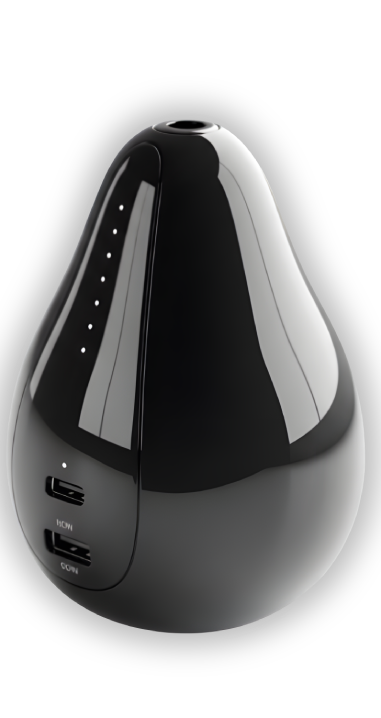
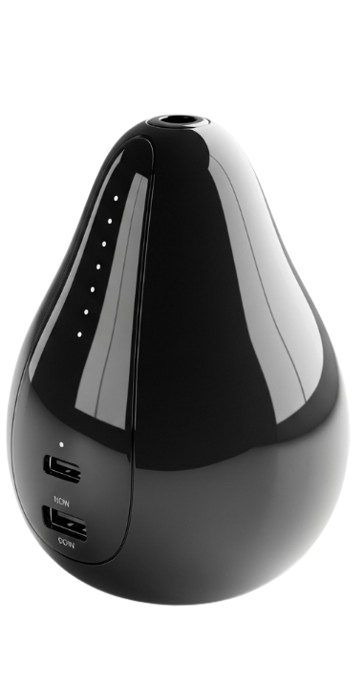
ombreggiatura immagini shop

Changed region(s): [[0.0, 0.1224, 1.0, 0.9184]]

diff --git a/src/app/shop/shop.component.ts b/src/app/shop/shop.component.ts
@@ -17,7 +17,7 @@ interface Product {
 export class ShopComponent {
   products: Product[] = [
     {
-      imageUrl: 'assets/images/Peraphone1.png',
+      imageUrl: 'assets/images/Peraphone1-prodotti.png',
       title: 'PeraPhone Lite',
       description: `
         <ul>
@@ -32,7 +32,7 @@ export class ShopComponent {
       orderQty: 1
     },
     {
-      imageUrl: 'assets/images/Peraphone2.png',
+      imageUrl: 'assets/images/Peraphone2-prodotti.png',
       title: 'PeraPhone Air',
       description: `
         <ul>
@@ -47,7 +47,7 @@ export class ShopComponent {
       orderQty: 1
     },
     {
-      imageUrl: 'assets/images/Peraphone3.png',
+      imageUrl: 'assets/images/Peraphone3-prodotti.png',
       title: 'PeraPhone Pro',
       description: `
         <ul>
@@ -62,7 +62,7 @@ export class ShopComponent {
       orderQty: 1
     },
     {
-      imageUrl: 'assets/images/Perabuds.png',
+      imageUrl: 'assets/images/Perabuds2.png',
       title: 'PeraPods',
       description: `
         <ul>
@@ -77,7 +77,7 @@ export class ShopComponent {
       orderQty: 1
     },
     {
-      imageUrl: 'assets/images/Perawatch.png',
+      imageUrl: 'assets/images/PeraWatch2.png',
       title: 'PeraWatch',
       description: `
         <ul>
@@ -106,7 +106,7 @@ export class ShopComponent {
       orderQty: 1
     },
     {
-      imageUrl: 'assets/images/Peraphones.png',
+      imageUrl: 'assets/images/Peraphones2.png',
       title: 'Peraphones',
       description: `
         <ul>

diff --git a/src/app/shop/shop.component.html b/src/app/shop/shop.component.html
@@ -4,13 +4,12 @@
     <div class="col-md-4" *ngFor="let product of products">
       <div class="card h-100 shadow-sm text-center">
         <!-- immagine in alto -->
-        <img
-          [src]="product.imageUrl"
-          [alt]="product.title"
-          class="card-img-top p-3"
-          style="height: 200px; object-fit: contain;"
-        />
-
+          <img
+            [src]="product.imageUrl"
+            [alt]="product.title"
+            class="card-img-top p-3"
+            style="height: 200px; object-fit: contain; display: block; filter: drop-shadow(0 4px 8px rgba(0, 0, 0, 0.2));"
+          />
         <!-- corpo card -->
         <div class="card-body d-flex flex-column">
           <!-- titolo -->
